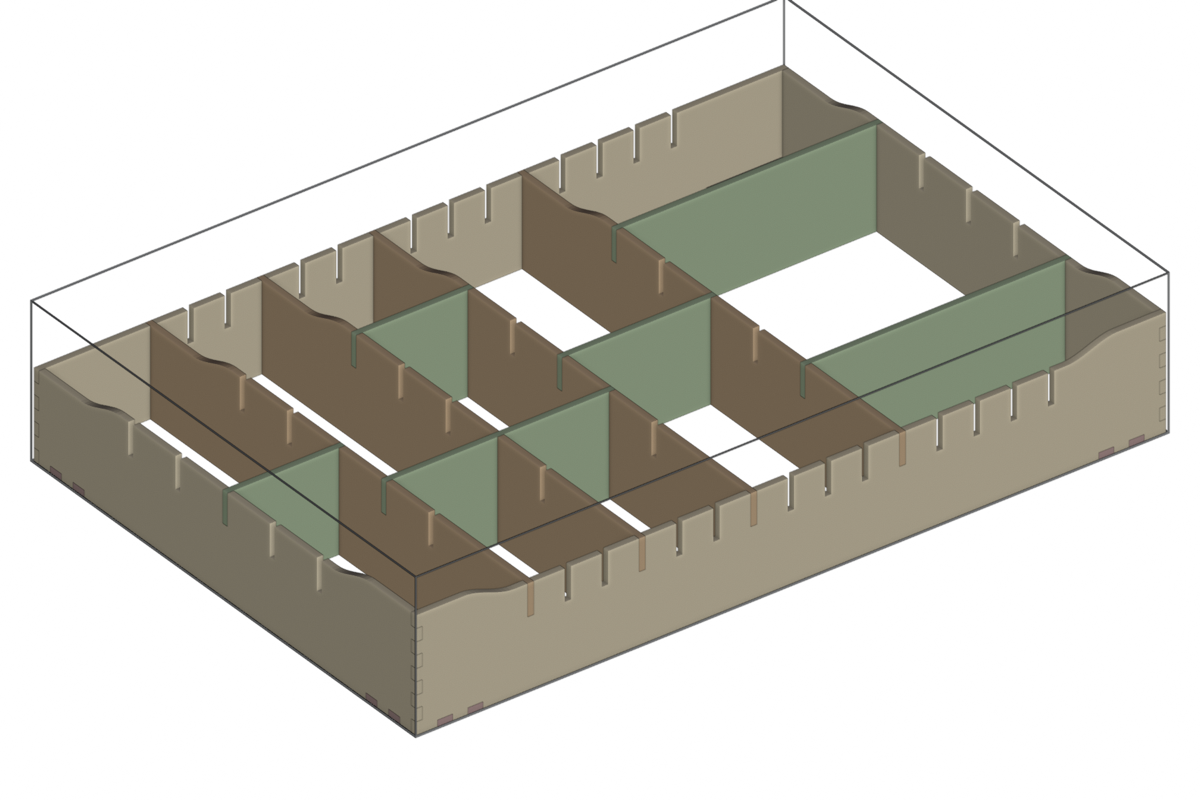
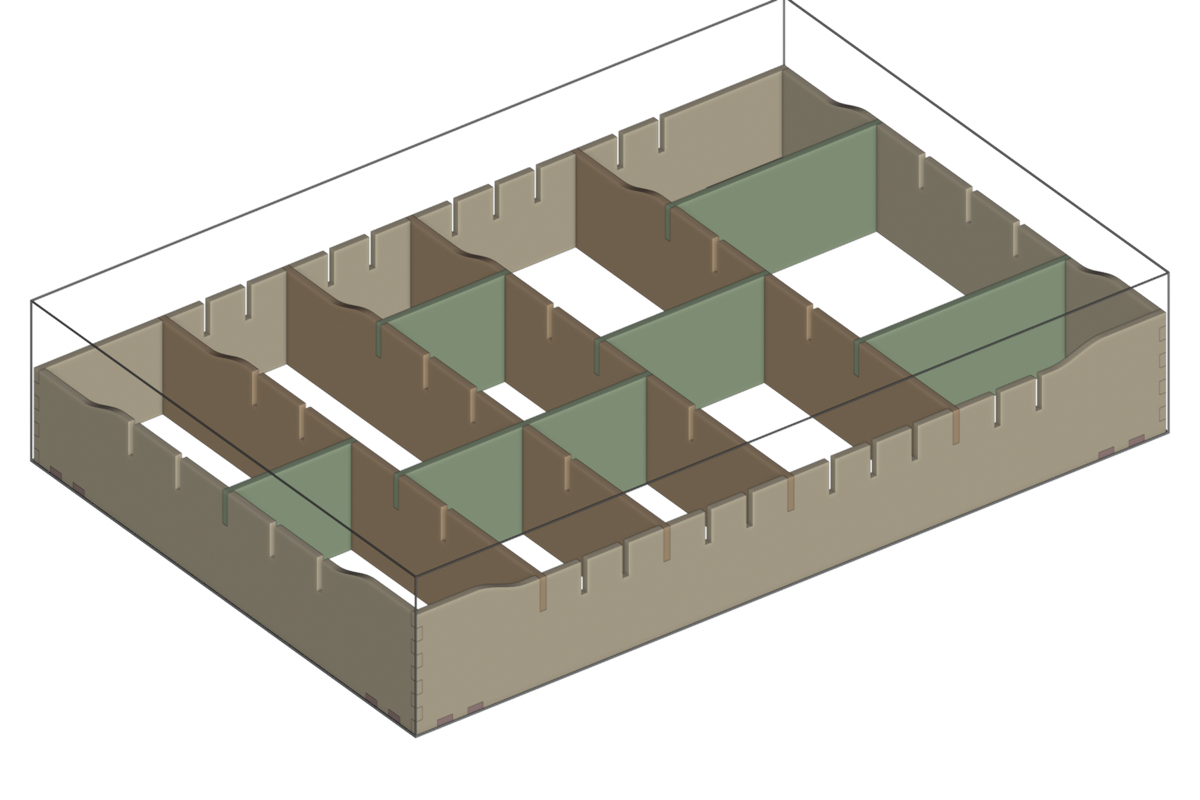
Drawer organizer: 18-step grid, named layouts, six-equal columns
Grid steps are now explicit (column_steps=18, row_steps=8) instead of a
snapped pitch target, so equal splits are a matter of divisibility: 18 gives
2, 3, 6 or 9 equal columns. config.py holds the box once and named layouts on
top (three-plus-two, six-equal); build.py --layout picks one. A
corner_plateau_min keeps the full-height corner from shrinking when the grid
puts a slot close to the wall.

Claude-Session: https://claude.ai/code/session_01LZycd3S2pwbAJV8HQ6xUfH

Changed region(s): [[0.1233, 0.1562, 0.8942, 0.7812], [0.3392, 0.75, 0.37, 0.7812]]

diff --git a/projects/drawer-organizer/design.py b/projects/drawer-organizer/design.py
@@ -55,12 +55,13 @@ class OrganizerConfig:
     clearance: float = 1 / 16       # gap between the box and each drawer wall
     height: float = 4.5             # wall height at the raised corners
     thickness: float = 0.25         # measured stock thickness
-    column_pitch: float = 1.5       # target spacing of column-divider positions along the width
-    row_pitch: float = 2.5          # target spacing of row-divider positions along the depth
+    column_steps: int = 18          # grid steps across the width (even); equal columns need a divisor of this
+    row_steps: int = 8              # grid steps along the depth (even)
     notch_depth: float | None = None  # how far a divider's ear engages a slot; default half the interior level
     corner_rise: float = 0.5        # how much higher the front corners stand than the interior level
     back_level: float | None = None  # height of the whole back edge; None for raised back corners like the front
     step_gap: float = 0.5           # flat edge kept between a step and the nearest slot
+    corner_plateau_min: float = 1.5  # least full-height edge kept at a corner before the shoulder begins
     corner_curve: str = "ease"      # shoulder shape: 'ease' (cubic S over step_run), 'ogee' (two quarter circles) or 'round'
     step_run: float = 2.0           # length of an 'ease' shoulder; circular shoulders are as long as the step is tall
     finger_width: float = 0.5       # target finger width at the corners
@@ -71,14 +72,14 @@ class OrganizerConfig:
     rows: list[RowDivider] = field(default_factory=list)
 
 
-def snap_pitch(length: float, target_pitch: float, thickness: float) -> float:
-    """The pitch nearest `target_pitch` such that an even number of pitches spans the
-    wall's length minus one stock thickness. With that, a cell against a wall and a
-    cell between two dividers are the same width for the same number of grid steps:
-    every cell is steps * pitch - thickness."""
-    span = length - thickness
-    n = max(2, 2 * round(span / target_pitch / 2))
-    return span / n
+def step_pitch(length: float, steps: int, thickness: float) -> float:
+    """The grid pitch when the wall's length minus one stock thickness is divided into
+    `steps` equal steps. With an even count, a cell against a wall and a cell between
+    two dividers are the same width for the same number of steps: every cell is
+    steps * pitch - thickness, and m equal columns need `steps` divisible by m."""
+    if steps < 2 or steps % 2:
+        raise ValueError("grid steps must be an even number of at least 2")
+    return (length - thickness) / steps
 
 
 def grid(length: float, pitch: float, thickness: float, clear: float) -> dict[int, float]:
@@ -124,12 +125,12 @@ class Design:
         self.divider_slot_depth = self.level - self.slot_floor
         self.bottom_notch_depth = self.slot_floor            # a divider's bottom notch reaches this high
         self.back_bottom_notch_depth = self.back_slot_floor  # at a column divider's back end
-        # Slots must miss the gussets and leave room for a step plus its gap between
-        # the corner joint and the first slot.
+        # Slots must miss the gussets and leave room for the corner plateau, a
+        # shoulder and its gap between the corner joint and the first slot.
         shoulder = max(self.shoulder_width(cfg.corner_rise), self.shoulder_width(self.back_step))
-        clear = max(cfg.edge_margin, cfg.gusset_leg, shoulder + cfg.step_gap)
-        self.column_pitch = snap_pitch(self.width, cfg.column_pitch, t)
-        self.row_pitch = snap_pitch(self.depth, cfg.row_pitch, t)
+        clear = max(cfg.edge_margin, cfg.gusset_leg, cfg.corner_plateau_min + shoulder + cfg.step_gap)
+        self.column_pitch = step_pitch(self.width, cfg.column_steps, t)
+        self.row_pitch = step_pitch(self.depth, cfg.row_steps, t)
         self.column_grid = grid(self.width, self.column_pitch, t, clear)
         self.row_grid = grid(self.depth, self.row_pitch, t, clear)
         self.gusset_tab_spans = even_tab_spans(cfg.gusset_leg, cfg.gusset_tabs) if cfg.gusset_leg > 0 else []
@@ -332,11 +333,12 @@ class Design:
         lines = [
             f"Drawer organizer: outer {fmt(self.width)} x {fmt(self.depth)} x {fmt(self.height)} in, "
             f"{fmt(cfg.thickness)} in stock, {fmt(cfg.clearance)} in clearance per side",
-            f"Column grid: {len(self.column_grid)} positions at {fmt(self.column_pitch)} in pitch "
-            f"(x = {fmt(min(self.column_grid.values()))} .. {fmt(max(self.column_grid.values()))}); "
-            f"a cell n steps wide is {fmt(self.column_pitch)}n - {fmt(cfg.thickness)}",
-            f"Row grid:    {len(self.row_grid)} positions at {fmt(self.row_pitch)} in pitch "
-            f"(y = {fmt(min(self.row_grid.values()))} .. {fmt(max(self.row_grid.values()))})",
+            f"Column grid: {cfg.column_steps} steps of {fmt(self.column_pitch)} in across the width, "
+            f"{len(self.column_grid)} usable positions (x = {fmt(min(self.column_grid.values()))} .. "
+            f"{fmt(max(self.column_grid.values()))}); a cell n steps wide is {fmt(self.column_pitch)}n - {fmt(cfg.thickness)}",
+            f"Row grid:    {cfg.row_steps} steps of {fmt(self.row_pitch)} in along the depth, "
+            f"{len(self.row_grid)} usable positions (y = {fmt(min(self.row_grid.values()))} .. "
+            f"{fmt(max(self.row_grid.values()))})",
             f"Tops: interior level {fmt(self.level)} in; front corners {fmt(cfg.corner_rise)} in higher, "
             f"stepping down ({cfg.corner_curve}, {fmt(self.shoulder_width(cfg.corner_rise))} in long) "
             f"{fmt(cfg.step_gap)} in before the first slot "

diff --git a/projects/drawer-organizer/config.py b/projects/drawer-organizer/config.py
@@ -1,43 +1,65 @@
-"""The kitchen drawer this organizer is for, and the current divider layout.
+"""The kitchen drawer this organizer is for, and the divider layouts it supports.
+
+The box parameters are shared; each layout in LAYOUTS places column and row dividers
+on the grid. `build.py --layout NAME` picks one; CONFIG is the default.
 
 Grid indices count outward from the middle of the drawer: column index 0 is the
-divider position at the drawer's centre line, -1 is one pitch to the left, +1 one
-pitch to the right. Row indices work the same way front (negative) to back (positive).
+divider position at the drawer's centre line, -1 is one step to the left, +1 one step
+to the right. Row indices work the same way front (negative) to back (positive).
 
-The pitch is nudged so that a cell n grid steps wide is always n * pitch - thickness,
-whether it sits against a wall or between two dividers. With 20 column steps across
-this box, a divider at index -7 is three steps in from the left wall.
+The width is divided into 18 steps, so a cell n steps wide is always
+n * pitch - thickness, whether it sits against a wall or between two dividers, and
+the drawer splits evenly into 2, 3, 6 or 9 columns. The depth is divided into 8 steps.
 """
+from dataclasses import replace
+
 from design import OrganizerConfig, RowDivider
 
-CONFIG = OrganizerConfig(
+BOX = OrganizerConfig(
     drawer_width=29.75,
     drawer_depth=20.25,
     drawer_height=6.0,
     clearance=1 / 16,
     height=4.5,
     thickness=0.25,
-    column_pitch=1.5,
-    row_pitch=2.5,
+    column_steps=18,
+    row_steps=8,
     notch_depth=1.25,
     corner_rise=0.5,
     corner_curve="ease",
     step_run=2.0,
     back_level=3.5,
     step_gap=0.5,
+    corner_plateau_min=1.5,
     gusset_leg=3.0,
     gusset_tabs=2,
-    # Column dividers at these grid positions (left to right): three equal columns of
-    # 3 steps each on the left, then a 4-step and a 7-step column.
-    columns=[-7, -4, -1, 3],
-    # Row dividers: (start boundary, end boundary, row index). Boundary 0 is the left
-    # wall, 1..4 the column dividers above, 5 the right wall.
-    rows=[
-        RowDivider(0, 1, 0),    # column 1 split in half
-        RowDivider(1, 3, -1),   # one long divider across columns 2 and 3, crossing divider 2
-        RowDivider(2, 3, 2),    # column 3 gets a second split further back
-        RowDivider(4, 5, -2),   # column 5 split into three
-        RowDivider(4, 5, 2),
-        RowDivider(3, 4, 0),    # column 4 split in half
-    ],
 )
+
+LAYOUTS = {
+    # Three equal columns of 3 steps on the left, then a 4-step and a 5-step column.
+    # Boundaries for row dividers: 0 is the left wall, 1..4 the column dividers, 5 the
+    # right wall.
+    "three-plus-two": replace(
+        BOX,
+        columns=[-6, -3, 0, 4],
+        rows=[
+            RowDivider(0, 1, 0),    # column 1 split in half
+            RowDivider(1, 3, -1),   # one long divider across columns 2 and 3, crossing divider 2
+            RowDivider(2, 3, 2),    # column 3 gets a second split further back
+            RowDivider(4, 5, -2),   # column 5 split into three
+            RowDivider(4, 5, 2),
+            RowDivider(3, 4, 0),    # column 4 split in half
+        ],
+    ),
+    # Six equal columns of 3 steps each; the outer two split in half.
+    "six-equal": replace(
+        BOX,
+        columns=[-6, -3, 0, 3, 6],
+        rows=[
+            RowDivider(0, 1, 0),
+            RowDivider(5, 6, 0),
+        ],
+    ),
+}
+
+CONFIG = LAYOUTS["three-plus-two"]

diff --git a/projects/drawer-organizer/test_design.py b/projects/drawer-organizer/test_design.py
@@ -1,6 +1,6 @@
 import pytest
 
-from config import CONFIG
+from config import CONFIG, LAYOUTS
 from design import Design, OrganizerConfig, RowDivider
 
 
@@ -12,19 +12,35 @@ def design():
 def test_outer_size_and_grid(design):
     assert design.width == 29.625 and design.depth == 20.125
     xs = list(design.column_grid.values())
-    assert xs == sorted(xs) and len(xs) == 15
+    assert xs == sorted(xs) and len(xs) == 13
     assert xs[0] + xs[-1] == pytest.approx(design.width)  # symmetric about the centre
     assert xs[0] - 0.125 >= 0.25 + 3.0                   # clear of the corner gusset
+    assert xs[0] - 0.125 >= 0.25 + 1.5 + 2.0 + 0.5       # and of the corner plateau, shoulder and gap
     assert len(design.row_grid) == 5
 
 
-def test_pitch_snaps_so_wall_cells_match_divider_cells(design):
-    assert design.column_pitch == pytest.approx((design.width - 0.25) / 20)
+def test_steps_make_wall_cells_match_divider_cells(design):
+    assert design.column_pitch == pytest.approx((design.width - 0.25) / 18)
     assert design.row_pitch == pytest.approx((design.depth - 0.25) / 8)
     widths = [w for _, w, _ in design.cells()]
-    assert widths[0] == widths[1] == widths[2] == pytest.approx(3 * design.column_pitch - 0.25)
+    for w in widths[:3]:
+        assert w == pytest.approx(3 * design.column_pitch - 0.25)
     assert widths[3] == pytest.approx(4 * design.column_pitch - 0.25)
-    assert widths[4] == pytest.approx(7 * design.column_pitch - 0.25)
+    assert widths[4] == pytest.approx(5 * design.column_pitch - 0.25)
+
+
+def test_six_equal_columns_layout():
+    d = Design(LAYOUTS["six-equal"])
+    widths = [w for _, w, _ in d.cells()]
+    assert len(widths) == 6
+    assert all(w == pytest.approx(widths[0]) for w in widths)
+    assert widths[0] == pytest.approx((d.width - 2 * 0.25 - 5 * 0.25) / 6)
+    assert d.panels[4].kind == "column" and sum(p.kind == "column" for p in d.panels) == 5
+
+
+def test_odd_step_counts_are_rejected():
+    with pytest.raises(ValueError):
+        Design(OrganizerConfig(column_steps=15))
 
 
 def test_egg_crate_notches_are_complementary(design):
@@ -149,7 +165,7 @@ def test_panel_sizes(design):
     x3 = design.column_grid[CONFIG.columns[2]] + 0.125
     assert row.outline.length == pytest.approx(x3 - x1)
     # a row divider in one of the equal columns spans the cell plus two divider faces
-    assert by_name["row_1"].outline.length == pytest.approx(4.15625 + 0.5)
+    assert by_name["row_1"].outline.length == pytest.approx(3 * design.column_pitch - 0.25 + 0.5)
 
 
 def test_cut_list_needs_passthrough_for_walls(design):
@@ -187,10 +203,12 @@ def test_no_gussets_when_leg_is_zero():
     d = Design(OrganizerConfig(gusset_leg=0))
     assert not any(p.kind == "gusset" for p in d.panels)
     w = d.shoulder_width(0.5)
-    assert len(d.column_grid) == (17 if w == 2.0 else 19)   # a longer shoulder pushes the first slot in
+    import math
+    k = math.floor((d.width / 2 - 0.25 - (1.5 + w + 0.5) - 0.125) / d.column_pitch + 1e-9)
+    assert len(d.column_grid) == 2 * k + 1
     first = min(d.column_grid.values()) - 0.125
-    assert first >= 0.25 + w + 0.5    # room for a corner joint, a shoulder and a gap before the first slot
-    assert d.front_wall_plateau[0] >= 0.25
+    assert first >= 0.25 + 1.5 + w + 0.5   # room for the corner plateau, a shoulder and a gap before the first slot
+    assert d.front_wall_plateau[0] >= 1.5
 
 
 def test_cells_add_up(design):

diff --git a/projects/drawer-organizer/build.py b/projects/drawer-organizer/build.py
@@ -15,6 +15,7 @@ Options after the `--`:
     --views LIST     comma-separated subset of iso,top,front,corner (default iso,top,front)
     --explode IN     lift column dividers by IN inches, row dividers by twice that, and
                      drop the gussets by IN
+    --layout NAME    one of the layouts in config.LAYOUTS (default config.CONFIG)
     --size WxH       render size in pixels (default 1800x1200)
     --region X0,Y0,X1,Y1   frame the renders on this part of the floor plan only
     --hide KINDS     comma-separated panel kinds to leave out of renders (wall,column,row,gusset)
@@ -65,13 +66,15 @@ def parse_args() -> argparse.Namespace:
     ap.add_argument("--views", default="iso,top,front")
     ap.add_argument("--explode", type=float, default=0.0)
     ap.add_argument("--size", default="1800x1200")
+    ap.add_argument("--layout")
     ap.add_argument("--region")
     ap.add_argument("--hide", default="")
     return ap.parse_args(argv)
 
 
-def build(explode: float = 0.0) -> tuple[design.Design, list[bpy.types.Object]]:
-    d = design.Design(config.CONFIG)
+def build(explode: float = 0.0, layout: str | None = None) -> tuple[design.Design, list[bpy.types.Object]]:
+    cfg = config.LAYOUTS[layout] if layout else config.CONFIG
+    d = design.Design(cfg)
     cols = {kind: lb.collection(label) for kind, label in LABELS.items()}
     mats = {kind: lb.material(kind, rgb) for kind, rgb in COLORS.items()}
     lift = {"wall": 0.0, "column": explode, "row": 2 * explode, "gusset": -explode}
@@ -85,7 +88,7 @@ def build(explode: float = 0.0) -> tuple[design.Design, list[bpy.types.Object]]:
 def main() -> None:
     args = parse_args()
     scene = lb.reset_scene()
-    d, objects = build(args.explode)
+    d, objects = build(args.explode, args.layout)
     print(d.describe())
 
     if args.blend:

diff --git a/projects/drawer-organizer/README.md b/projects/drawer-organizer/README.md
@@ -73,25 +73,27 @@ All in `config.py`, all in inches.
 | `clearance` | 1/16 per side | box is the drawer size minus twice this |
 | `height` | 4.5 | wall height at the raised corners |
 | `thickness` | 0.25 | **measure your actual stock with calipers** and set this |
-| `column_pitch` | 1.5 | target spacing of column-divider positions across the width; snapped, see below |
-| `row_pitch` | 2.5 | target spacing of row-divider positions along the depth; snapped |
+| `column_steps` | 18 | grid steps across the width; must be even, and a multiple of any number of equal columns you want |
+| `row_steps` | 8 | grid steps along the depth; must be even |
 | `notch_depth` | 1.25 | how far a divider's ear engages its slot, measured from the interior level |
 | `corner_rise` | 0.5 | how much higher the front corners stand than the interior level; 0 for straight tops |
 | `back_level` | 3.5 | height of the whole back edge; leave unset for raised back corners like the front |
 | `step_gap` | 0.5 | flat edge kept between any step and the nearest slot; the raised and lowered bands run from the corners to there |
+| `corner_plateau_min` | 1.5 | least full-height edge kept at a corner; slot positions that would shorten it are dropped |
 | `corner_curve` | `ease` | shoulder shape: `ease` (cubic S over `step_run`), `ogee` (two quarter circles, vertical in the middle) or `round` (one quarter circle) |
 | `step_run` | 2.0 | length of an `ease` shoulder; circular shoulders are as long as the step is tall |
 | `finger_width` | 0.5 | target; the real width makes an odd finger count |
 | `edge_margin` | 0.5 | solid wood kept between the outermost notch and a corner joint |
 | `gusset_leg` | 3.0 | leg length of the corner gussets; 0 removes them |
 | `gusset_tabs` | 2 | tabs along each gusset leg |
-| `columns` | `[-7, -4, -1, 3]` | grid indices of column dividers, 0 at the centre |
-| `rows` | six dividers | `(start boundary, end boundary, row index)` |
+| `columns` | per layout | grid indices of column dividers, 0 at the centre |
+| `rows` | per layout | `(start boundary, end boundary, row index)` |
 
 Grid indices count outward from the middle: column index 0 is the drawer's centre line,
 negative is left, positive is right; row index 0 is the middle of the depth, negative
-toward the front. Grid positions that would run into a gusset are dropped, so with the defaults there
-are 15 column positions and 5 row positions (19 and 7 without gussets).
+toward the front. Grid positions that would run into a gusset, or leave less than the minimum corner
+plateau, are dropped, so with the defaults there are 13 column positions and 5 row
+positions.
 
 **Slot depths.** The interior level is `height - corner_rise` (4.0). Slot floors sit
 `notch_depth` below the local top, so every ear engages its slot by 1.25 in: floors at
@@ -99,29 +101,35 @@ are 15 column positions and 5 row positions (19 and 7 without gussets).
 wall, whose top is lower. A column divider's bottom notches match: 2.75 in tall at the
 front, 2.25 at the back, which gives it a definite front and back.
 
-**Pitch snapping.** A cell against a wall is bounded by one wall face and one divider
-face; a cell between dividers by two divider faces. For the same number of grid steps
-those differ by half a stock thickness, unless an even number of pitches spans the wall
-length minus one thickness. So the pitch is nudged to the nearest value that does: here
-1.46875 in across (20 steps) and 2.484 in front to back (8 steps). Then any cell is
-simply steps x pitch minus thickness, wherever it sits, and columns given the same
-number of steps come out identical.
+**Grid steps.** The wall length minus one stock thickness is divided into an even
+number of equal steps: 18 across (a pitch of 1.632 in) and 8 front to back (2.484 in).
+A cell against a wall is bounded by one wall face and one divider face, a cell between
+dividers by two divider faces; with an even step count those come out the same width
+for the same number of steps, so any cell is simply steps x pitch minus thickness,
+wherever it sits. Splitting the drawer into m equal columns needs the step count to be
+a multiple of m: 18 allows 2, 3, 6 or 9 equal columns.
 
-## Current layout
+## Layouts
 
-Running `build.py` prints this. Three equal columns on the left (3 grid steps each),
-then a 4-step and a 7-step column:
+`config.py` holds the box parameters once and a set of named layouts on top of them;
+`build.py --layout NAME` builds one, and `build.py` prints the cell sizes.
+
+**three-plus-two** (the default): three equal columns of 3 steps on the left, then a
+4-step and a 5-step column.
 
 | column | clear width | cells front to back |
 |---|---|---|
-| 1 | 4.15625 | 9.6875 / 9.6875 |
-| 2 | 4.15625 | 7.203 / 12.172 |
-| 3 | 4.15625 | 7.203 / 7.203 / 4.719 |
-| 4 | 5.625 | 9.6875 / 9.6875 |
-| 5 | 10.03125 | 4.719 / 9.6875 / 4.719 |
+| 1 | 4.646 | 9.6875 / 9.6875 |
+| 2 | 4.646 | 7.203 / 12.172 |
+| 3 | 4.646 | 7.203 / 7.203 / 4.719 |
+| 4 | 6.278 | 9.6875 / 9.6875 |
+| 5 | 7.910 | 4.719 / 9.6875 / 4.719 |
 
-The row dividers are still the demonstration set that exercises every joint type; their
-lengths follow the columns automatically.
+**six-equal**: six columns of 3 steps, each 4.646 in wide, with the two outer columns
+split in half.
+
+The row dividers in both are demonstration sets; their lengths follow the columns
+automatically.
 
 ## Cutting
 
@@ -131,7 +139,7 @@ lengths follow the columns automatically.
 | back wall | 1 | 29.625 x 3.5 | passthrough |
 | side wall | 2 | 20.125 x 4.5 | passthrough |
 | column divider | 4 | 20.125 x 4.0 | passthrough |
-| row dividers | 6 | 4.66 to 10.53 x 4.0 | fit on the bed |
+| row dividers | 6 | 5.15 to 8.41 x 4.0 | fit on the bed |
 | corner gusset | 4 | 3.25 x 3.25 | fit on the bed |
 
 Every part that runs the full depth of the drawer is just over the 19.5 in bed, so the
@@ -149,8 +157,10 @@ stock thickness get applied at that stage; the geometry here is nominal.
    the dividers' 2.75 in bottom notches do the holding. The trade-off is that a divider
    is held sideways only by its 1.25 in ear in the wall slot, so a loose fit lets it
    rock; kerf compensation at export should aim for a snug fit.
-3. **Pitch about 1.5 in across, 2.5 in front to back,** snapped as described above.
-   Column positions stay fine-grained; row positions are deliberately few.
+3. **18 steps across, 8 front to back.** An earlier grid used 20 steps across, which
+   cannot split evenly into six columns; 18 supports both the three-plus-two layout and
+   six equal columns at a slightly coarser 1.63 in pitch. 24 steps would support six
+   equal columns too at a finer pitch, with more slots in the walls.
 4. **Corner gussets, 3 in legs.** They triangulate the corners of a box that otherwise
    has nothing keeping it square once it leaves the drawer. The cost is a triangle of
    floor in each corner cell and the divider positions nearest the corners, which only
